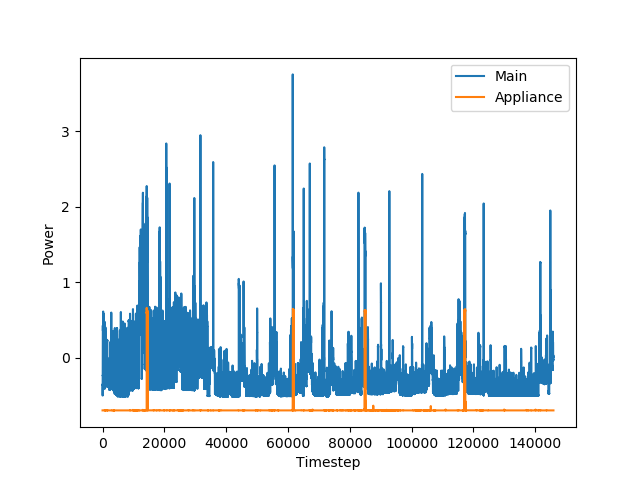
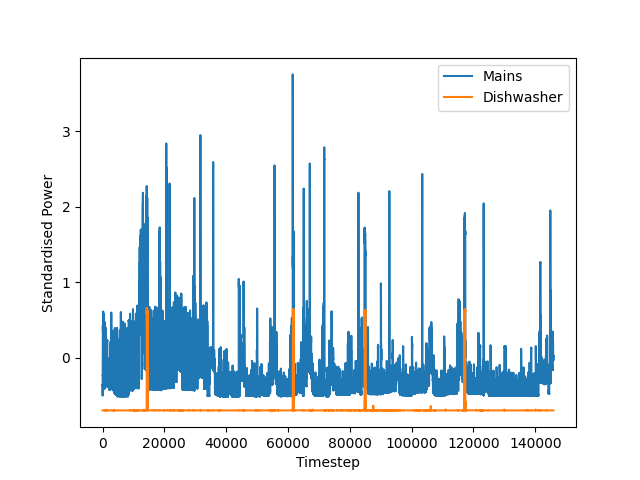
Updated the data splits graphs

diff --git a/plotDataSplits.py b/plotDataSplits.py
@@ -4,8 +4,9 @@ import matplotlib.pyplot as plt
 import time
 
 count = 1
+applianceNames = ['Washing machine', 'Dishwasher', 'Fridge', 'Microwave']
 
-for appliance in ['washingmachine', 'dishwasher', 'fridge', 'microwave']:
+for index, appliance in enumerate(['washingmachine', 'dishwasher', 'fridge', 'microwave']):
     for type in ['validation', 'test', 'training']:
         fileName = "/Users/NunoAlberto/Desktop/Computer Science/3rd Year/tb2/Individual Project/seq2point/" + appliance + "Data/" + appliance + "_" + type + "_.csv"
         data = np.array(pd.read_csv(fileName, nrows=None, skiprows=0, header=0))
@@ -15,9 +16,9 @@ for appliance in ['washingmachine', 'dishwasher', 'fridge', 'microwave']:
 
         plt.figure(count)
 
-        plt.plot(mainPower, label="Main")
-        plt.plot(appliancePower, label="Appliance")
-        plt.ylabel('Power')
+        plt.plot(mainPower, label="Mains")
+        plt.plot(appliancePower, label=applianceNames[index])
+        plt.ylabel('Standardised Power')
         plt.xlabel('Timestep')
         plt.legend()
 

diff --git a/model_structure.py b/model_structure.py
@@ -105,5 +105,6 @@ def load_model(model, network_type, algorithm, appliance, saved_model_dir):
 
     model = tf.keras.models.load_model(model_name)
     num_of_weights = model.count_params()
+    model.summary()
     print("Loaded model with ", str(num_of_weights), " weights")
     return model
